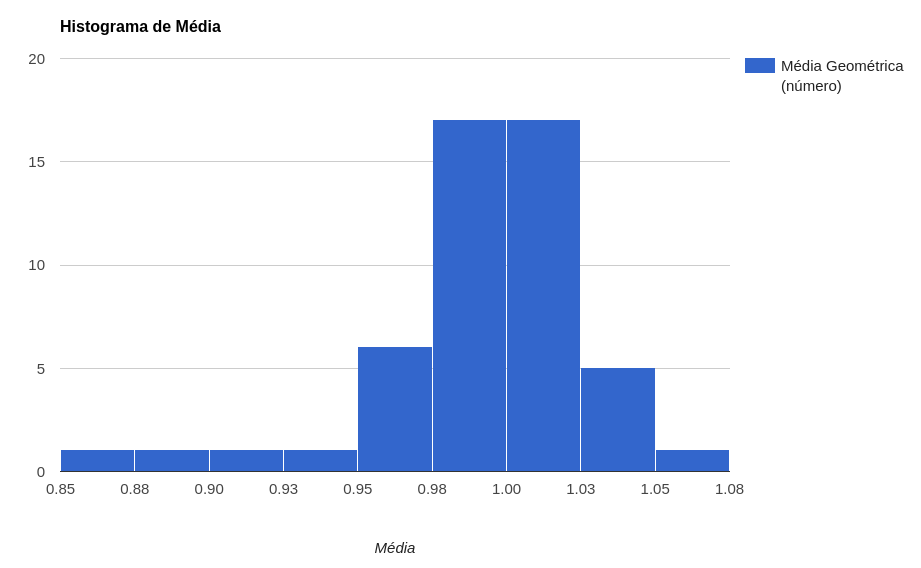
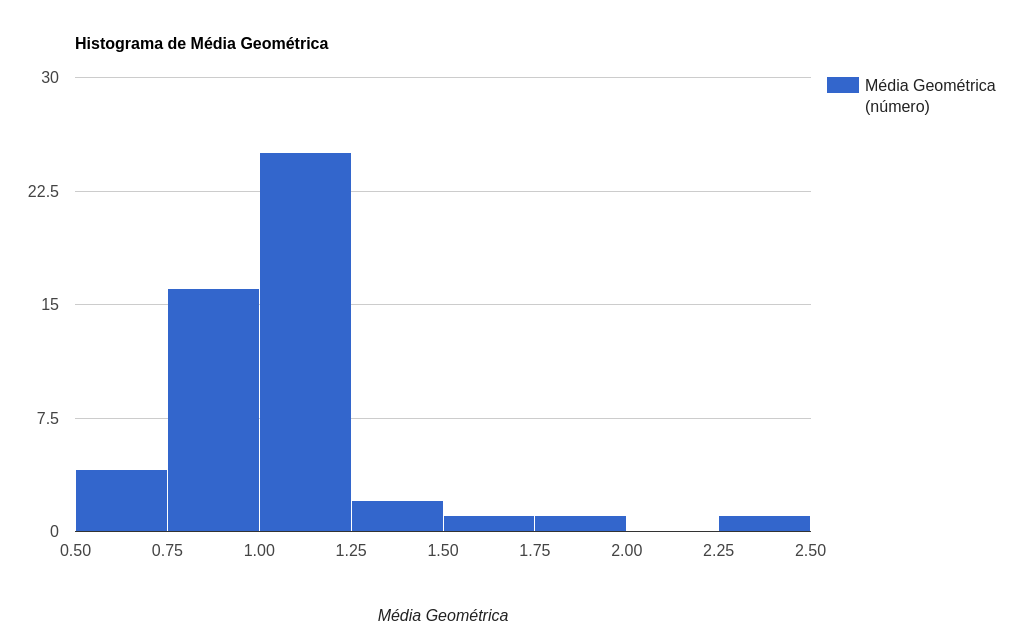
Atualisando Imagens

diff --git a/trabalho1/README.md b/trabalho1/README.md
@@ -142,7 +142,7 @@ Mas percebeu-se que certas fórmulas faziam classificações reversas e simplesm
 
 Só por este gráfico já é possível perceber que qualquer classificação que venha a ser fornecida por este métodos não será boa o bastante.
 
-Para resolver este problema todas as fórulas de bencharks foram alteradas para o mesmo padrão de sempre obter a média geométrica das razões entre o desempenho de uma dada máquina e a máquina base de cada benchmark. Para manter manter um pouco das decisões tomadas pelos grupos na Primeira Parte, a média geométrica foi ponderada pelos pesos que já se mostravam claramente nas fórmulas anteriores. Onde os pesos não estavam claros ou onde a fórmula era muito diferente, todos os critérios avaliados foram considerados com o mesmo peso.
+Para resolver este problema todas as fórmulas de bencharks foram alteradas para o mesmo padrão de sempre obter a média geométrica das razões entre o desempenho de uma dada máquina e a máquina base de cada benchmark. Para manter um pouco das decisões tomadas pelos grupos na Primeira Parte, a média geométrica foi ponderada pelos pesos que já se mostravam claramente nas fórmulas anteriores. Onde os pesos não estavam claros ou onde a fórmula era muito diferente, todos os critérios avaliados foram considerados com o mesmo peso.
 
 A partir deste método obtiveram-se os gráficos a seguir:
 
@@ -152,7 +152,7 @@ A partir deste método obtiveram-se os gráficos a seguir:
 
 ![alt text](3-3.png "Gráfico 3.3")
 
-Considerando este método já mais razoável, para obter a pontuação final de cada máquina, fez-se uma média geométrica ponderada da pontuação obtida em cada benchmark e com peso proporcional a quantas medidas foram feitas naquele benchmark, obtendo uma distribuição de pontuação que pode ser visualizada pelo seguinte histograma e pelo seguinte perfil:
+Considerando este método já mais razoável, isto é, com menos incoerências se comparado ao anterior, para obter a pontuação final de cada máquina, fez-se uma média geométrica ponderada da pontuação obtida em cada benchmark e com peso proporcional a quantas medidas foram feitas naquele benchmark, obtendo uma distribuição de pontuação que pode ser visualizada pelo seguinte histograma e pelo seguinte perfil:
 
 ![alt text](HistGeom.png "Histograma")
 
@@ -172,4 +172,4 @@ Dessa forma o novo ranking obtido foi: C20,C54,C19,C27,C16,C28,C34,C06,C35,C15,C
 
 ### Consistência das Medições
 
-Considerando os computadores testados na parte 2, que são 4, 7, 13, 39, 20, 15, 7, a ordem de rankeamento obtida foi: C20 C15 C07 C04 C39 C13 do melhor para o pior. Isso parece refletir bem as características de cada máquina testada, exceto talvez a ordem entre C20 e C15 que poderia ser trocada. Mas estas diferenças podem ser explicadas por fatores aleatórios ou pela concorrência de processos nas máquinas onde os benchmarks foram execultados
+Considerando os computadores testados na parte 2, que são 4, 7, 13, 15, 20 e 39, a ordem de rankeamento obtida foi: C20 C15 C07 C04 C39 C13 do melhor para o pior. Isso parece refletir bem as características de cada máquina testada, exceto talvez a ordem entre C20 e C15 que poderia ser trocada. Mas estas diferenças podem ser explicadas por fatores aleatórios ou pela concorrência de processos nas máquinas onde os benchmarks foram executados.
